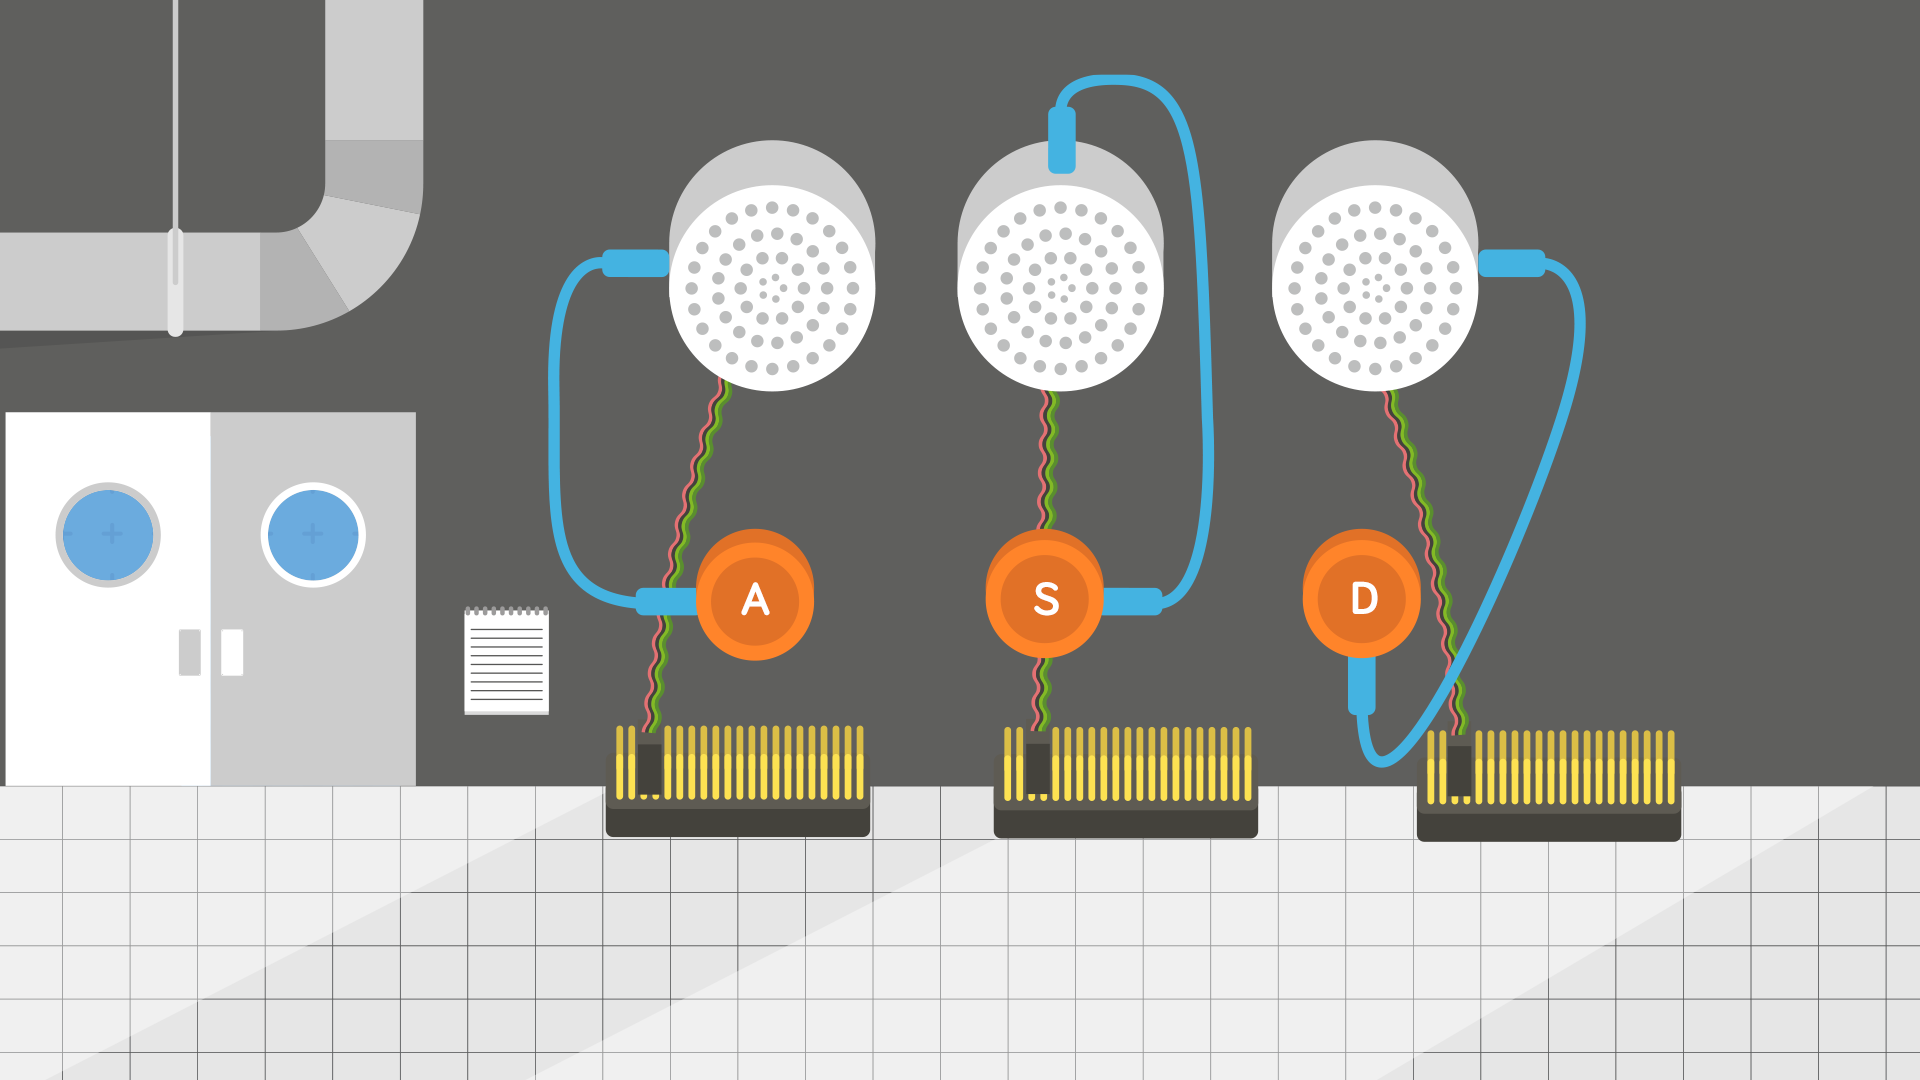
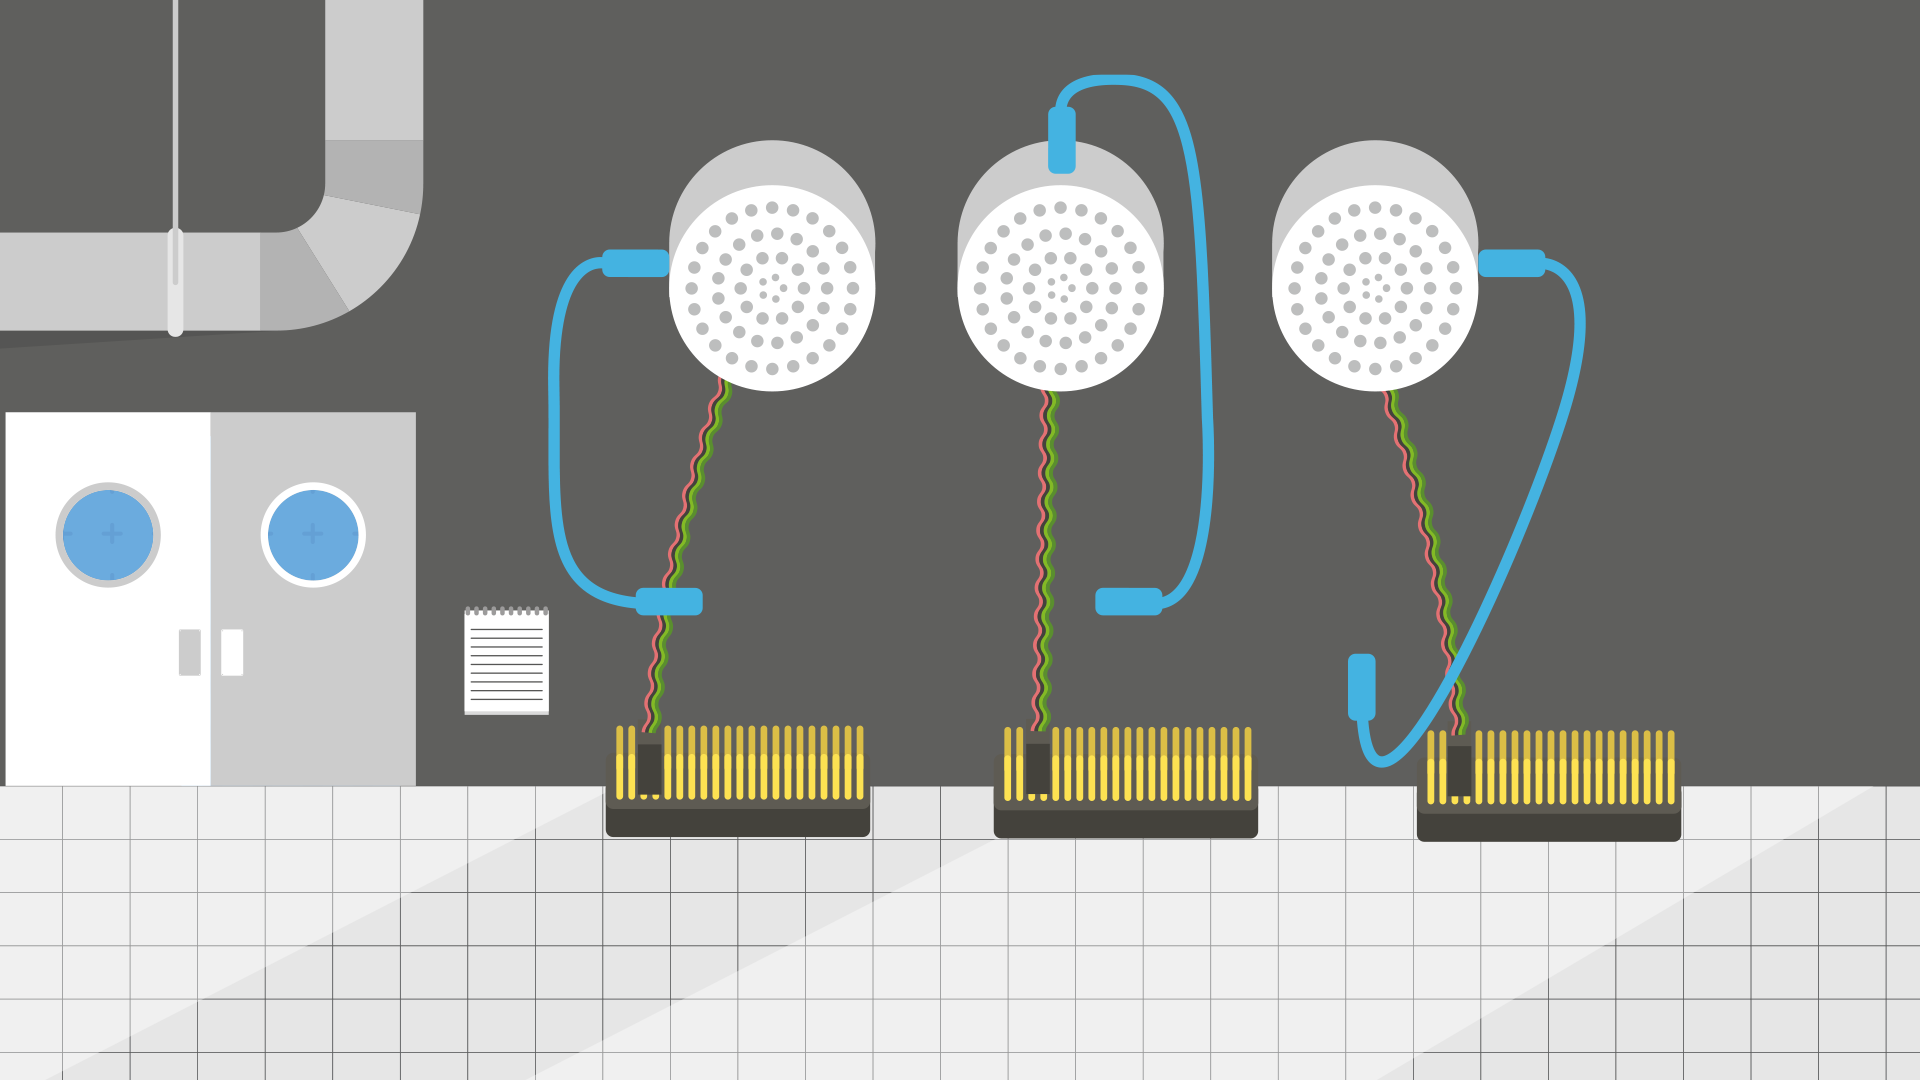
audio-lab: Replace keys and make them respond to presses

Changed region(s): [[0.3438, 0.4889, 0.4375, 0.6111], [0.5, 0.4889, 0.5938, 0.6111], [0.6562, 0.4889, 0.75, 0.6111]]

diff --git a/kano_init_flow/ui/scene.py b/kano_init_flow/ui/scene.py
@@ -71,7 +71,8 @@ class Scene(object):
 
         if main_window:
             self._keys = {}
-            main_window.set_key_events_handler(self._keypress_cb_wrapper)
+            main_window.set_key_events_handlers(self._key_press_cb_wrapper,
+                                                self._key_release_cb_wrapper)
 
         self._overlay = Gtk.Overlay()
 
@@ -135,7 +136,8 @@ class Scene(object):
                                                            self._h)
         self._background.set_from_pixbuf(bg_pixbuf)
 
-    def add_character(self, p43, p169, clicked_cb=None, key=None, name=None, modal=False):
+    def add_character(self, p43, p169, clicked_cb=None, key=None,
+                      name=None, modal=False):
         # Character path in the home directory
         character_path = os.path.join(
             os.path.expanduser("~"),
@@ -194,7 +196,11 @@ class Scene(object):
                     msg = 'Scene must be initialised with main_window to ' + \
                           'be able to receive key events.'
                     raise RuntimeError(msg)
-                self._keys[key] = clicked_cb
+                cbs = {'action': clicked_cb}
+                if issubclass(widget.__class__, ActiveImage):
+                    cbs['down'] = widget.down
+                    cbs['up'] = widget.up
+                self._keys[key] = cbs
 
         align = Gtk.Alignment.new(placement.x, placement.y, 0, 0)
         align.add(root_widget)
@@ -228,16 +234,27 @@ class Scene(object):
         clicked_cb(*args)
         return True
 
-    def _keypress_cb_wrapper(self, widget, event):
+    def _handle_key_event(self, event, cb_seq):
         if hasattr(event, 'keyval'):
-            for key, cb in self._keys.iteritems():
+            for key, cbs in self._keys.iteritems():
                 if event.keyval == key:
-                    if isinstance(cb, (list, tuple)):
-                        cb[0](*cb[1:])
-                    else:
-                        cb()
+                    # call all the callbacks in the correct sequence
+                    for n in cb_seq:
+                        if n not in cbs or cbs[n] is None:
+                            next
+                        cb = cbs[n]
+                        if isinstance(cb, (list, tuple)):
+                            cb[0](*cb[1:])
+                        else:
+                            cb()
                     return True
         return False
+
+    def _key_press_cb_wrapper(self, widget, event):
+        return self._handle_key_event(event, ['down'])
+
+    def _key_release_cb_wrapper(self, widget, event):
+        return self._handle_key_event(event, ['action', 'up'])
 
     def scale_pixbuf_to_scene(self, pixbuf, scale_4_3, scale_16_9):
         screen_ratio = self._screen_ratio
@@ -279,8 +296,16 @@ class Scene(object):
 class ActiveImage(object):
     def __init__(self, img, hover=None, down=None):
         self._img = Gtk.Image.new_from_file(img)
-        self._hover = Gtk.Image.new_from_file(hover)
-        self._down = Gtk.Image.new_from_file(down)
+
+        if hover:
+            self._hover = Gtk.Image.new_from_file(hover)
+        else:
+            self._hover = self._img
+
+        if down:
+            self._down = Gtk.Image.new_from_file(down)
+        else:
+            self._down = self._img
 
     def scale(self, factor):
         scaled = []
@@ -315,11 +340,17 @@ class ActiveImage(object):
         else:
             self._w.set_from_pixbuf(img.get_pixbuf())
 
-    def _down_cb(self, widget, event, user=None):
+    def down(self):
         self.set(self._down)
 
-    def _up_cb(self, widget, event, user=None):
+    def up(self):
         self.set(self._img)
+
+    def _down_cb(self, widget, event, user=None):
+        self.down()
+
+    def _up_cb(self, widget, event, user=None):
+        self.up()
 
     def _enter_cb(self, widget, event, user=None):
         self.set(self._hover)

diff --git a/kano_init_flow/stages/audio_lab/main.py b/kano_init_flow/stages/audio_lab/main.py
@@ -11,7 +11,7 @@ from kano.gtk3.buttons import KanoButton
 from kano.utils import play_sound
 
 from kano_init_flow.stage import Stage
-from kano_init_flow.ui.scene import Scene, Placement
+from kano_init_flow.ui.scene import Scene, Placement, ActiveImage
 from kano_init_flow.ui.speech_bubble import SpeechBubble
 from kano_init_flow.paths import common_media_path
 from kano_init_flow.ui.utils import add_class, cb_wrapper, scale_image
@@ -71,7 +71,8 @@ class AudioLab(Stage):
         )
 
         scene.add_widget(
-            Gtk.Image.new_from_file(self.media_path('button.png')),
+            ActiveImage(self.media_path('a.png'),
+                        down=self.media_path('a-down.png')),
             Placement(0.4, 0.55),
             Placement(0.387, 0.567),
             [self._a_clicked, scene],
@@ -79,7 +80,8 @@ class AudioLab(Stage):
         )
 
         scene.add_widget(
-            Gtk.Image.new_from_file(self.media_path('button.png')),
+            ActiveImage(self.media_path('s.png'),
+                        down=self.media_path('s-down.png')),
             Placement(0.55, 0.55),
             Placement(0.549, 0.567),
             [self._s_clicked, scene],
@@ -87,7 +89,8 @@ class AudioLab(Stage):
         )
 
         scene.add_widget(
-            Gtk.Image.new_from_file(self.media_path('button.png')),
+            ActiveImage(self.media_path('d.png'),
+                        down=self.media_path('d-down.png')),
             Placement(0.7, 0.55),
             Placement(0.7215, 0.567),
             [self._d_clicked, scene],
@@ -133,7 +136,8 @@ class AudioLab(Stage):
         self._show_console(scene)
 
     def _s_clicked(self, scene):
-        play_sound('/usr/share/kano-media/sounds/kano_achievement_unlock.wav', True)
+        play_sound('/usr/share/kano-media/sounds/kano_achievement_unlock.wav',
+                   True)
         self._show_console(scene)
 
     def _d_clicked(self, scene):
@@ -165,7 +169,9 @@ class AudioLab(Stage):
                 'No light? Check the GPIO',
                 ['The cable has to be connected to these',
                  'pins exactly.'],
-                [{'label': 'NEXT', 'callback': self.help_jack, 'color': 'green'}]
+                [{'label': 'NEXT',
+                  'callback': self.help_jack,
+                  'color': 'green'}]
             ),
             Placement(0.5, 0.5, 0.0),
             Placement(0.45, 0.5, 0.0),
@@ -181,7 +187,9 @@ class AudioLab(Stage):
                 'Plug in the blue cable',
                 ['If you see the light, it\'s powered!',
                  'Now plug the audio.'],
-                [{'label': 'FINISHED', 'callback': self.remove_overlays, 'color': 'green'}]
+                [{'label': 'FINISHED',
+                  'callback': self.remove_overlays,
+                  'color': 'green'}]
             ),
             Placement(0.5, 0.5, 0.0),
             Placement(0.45, 0.5, 0.0),
@@ -231,7 +239,8 @@ class ConsoleScreen(Gtk.EventBox):
 
 
 class Notebook(Gtk.Overlay):
-    def __init__(self, stage, image_path, image_scale, image_align, title, copy, buttons):
+    def __init__(self, stage, image_path, image_scale, image_align,
+                 title, copy, buttons):
         super(Notebook, self).__init__()
 
         self.add(Gtk.Image.new_from_file(stage.media_path('notebook.png')))

diff --git a/kano_init_flow/ui/main_window.py b/kano_init_flow/ui/main_window.py
@@ -87,12 +87,17 @@ class MainWindow(Gtk.Window):
     def push(self, child):
         GLib.idle_add(self._do_push, child)
 
-    def set_key_events_handler(self, handler=None):
+    def set_key_events_handlers(self, press=None, release=None):
         if self._keypress_signal_id:
-            GObject.signal_handler_disconnect(self, self._keypress_signal_id)
+            GObject.signal_handler_disconnect(self, self._press_signal_id)
+            GObject.signal_handler_disconnect(self, self._release_signal_id)
 
-        if handler:
-            self._keypress_signal_id = self.connect('key-release-event', handler)
+        if press:
+            self._press_signal_id = self.connect('key-press-event', press)
+
+        if release:
+            self._release_signal_id = self.connect('key-release-event',
+                                                   release)
 
     def _do_push(self, child):
         if self._child:
